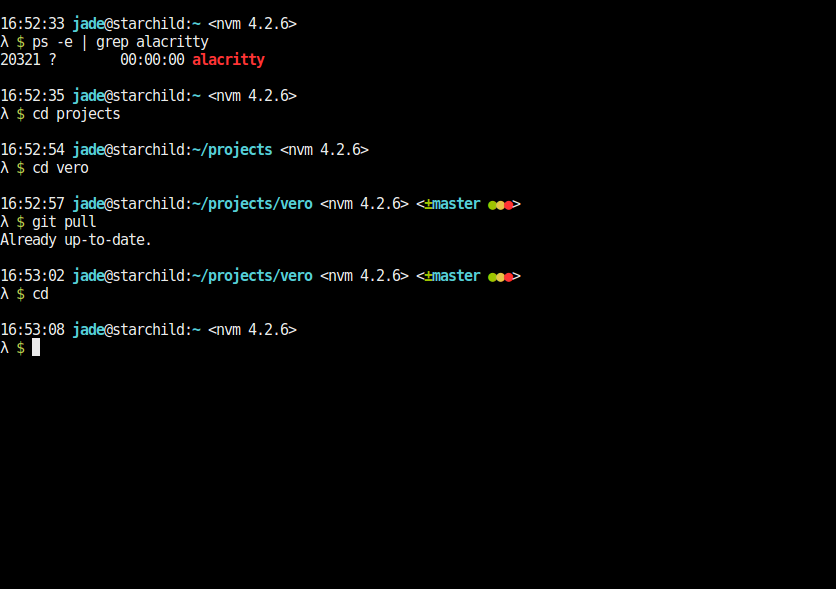
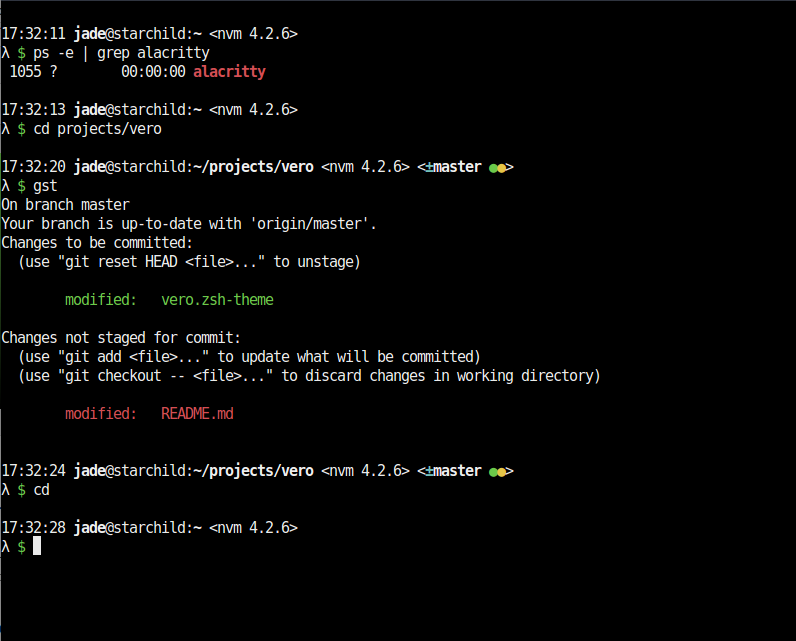
revert to white for alacritty compatibility

diff --git a/README.md b/README.md
@@ -30,9 +30,9 @@ A preview of Vero using Oh My ZSH and [Alacritty](https://github.com/jwilm/alacr
 1. Download and install the theme:
 
   ```bash
-  wget https://github.com/Raindeer44/vero/archive/v1.0.3.tar.gz
-  tar -xzvf v1.0.3.tar.gz
-  cd vero-1.0.3
+  wget https://github.com/Raindeer44/vero/archive/v1.0.4.tar.gz
+  tar -xzvf v1.0.4.tar.gz
+  cd vero-1.0.4
   make
   ```
 
